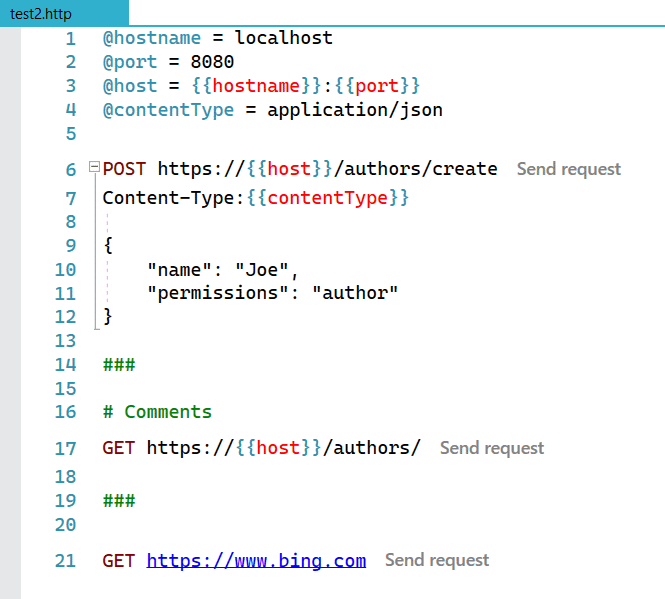
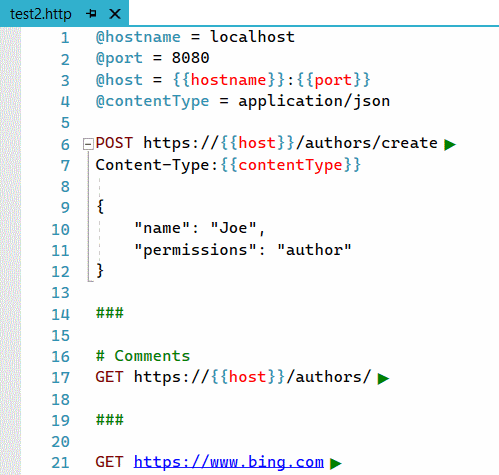
Added output colorization Fixes #4

Changed region(s): [[0.0, 0.0, 1.0, 1.0], [0.2104, 0.4421, 0.7214, 0.56]]

diff --git a/src/RestClientVS/OutputWindow/OutputClassifier.cs b/src/RestClientVS/OutputWindow/OutputClassifier.cs
@@ -1,0 +1,83 @@
+using System.Collections.Generic;
+using System.ComponentModel.Composition;
+using System.Linq;
+using System.Text.RegularExpressions;
+using Microsoft.VisualStudio.Text;
+using Microsoft.VisualStudio.Text.Classification;
+using Microsoft.VisualStudio.Text.Tagging;
+using Microsoft.VisualStudio.Utilities;
+
+namespace RestClientVS.OutputWindow
+{
+    [Export(typeof(ITaggerProvider))]
+    [TagType(typeof(IClassificationTag))]
+    [ContentType("output")]
+    public class OutputClassifier : ITaggerProvider
+    {
+        [Import] internal IClassificationTypeRegistryService _classificationRegistry = null;
+
+        public ITagger<T> CreateTagger<T>(ITextBuffer buffer) where T : ITag =>
+            buffer.Properties.GetOrCreateSingletonProperty(() => new OutputClassificationTagger(buffer, _classificationRegistry)) as ITagger<T>;
+
+    }
+
+    internal class OutputClassificationTagger : ITagger<IClassificationTag>
+    {
+        private readonly IClassificationType _headerNameType, _statusOkType, _statusBadType;
+        private readonly ITextBuffer _buffer;
+        private readonly Regex _status = new(@"^HTTP/\d.\d (?<status>\d{3} .+)", RegexOptions.Compiled | RegexOptions.IgnoreCase);
+        private readonly Regex _header = new(@"^(?<name>[\w-]+):(?<value>.+)", RegexOptions.Compiled | RegexOptions.IgnoreCase);
+
+        internal OutputClassificationTagger(ITextBuffer buffer, IClassificationTypeRegistryService registry)
+        {
+            _headerNameType = registry.GetClassificationType(ClassificationTypeDefinitions.HeaderName);
+            _statusOkType = registry.GetClassificationType(ClassificationTypeDefinitions.StatusOk);
+            _statusBadType = registry.GetClassificationType(ClassificationTypeDefinitions.StatusBad);
+            _buffer = buffer;
+        }
+
+        public IEnumerable<ITagSpan<IClassificationTag>> GetTags(NormalizedSnapshotSpanCollection spans)
+        {
+            if (spans.Count == 0 ||
+                !_buffer.CurrentSnapshot.Lines.Any() ||
+                !_buffer.CurrentSnapshot.Lines.First().GetText().StartsWith(Vsix.Name))
+            {
+                yield return null;
+            }
+
+            foreach (SnapshotSpan span in spans)
+            {
+                var text = span.GetText();
+
+                Match match = _header.Match(text);
+
+                if (match.Success)
+                {
+                    Group nameGroup = match.Groups["name"];
+                    var nameSpan = new SnapshotSpan(span.Snapshot, span.Start + nameGroup.Index, nameGroup.Length);
+                    var nameTag = new ClassificationTag(_headerNameType);
+                    yield return new TagSpan<IClassificationTag>(nameSpan, nameTag);
+                }
+                else
+                {
+                    match = _status.Match(text);
+
+                    if (match.Success)
+                    {
+                        Group statusGroup = match.Groups["status"];
+                        var statusCode = int.Parse(statusGroup.Value[0].ToString());
+                        IClassificationType type = statusCode == 2 || statusCode == 3 ? _statusOkType : _statusBadType;
+                        var statusTag = new ClassificationTag(type);
+                        yield return new TagSpan<IClassificationTag>(span, statusTag);
+                    }
+                }
+            }
+        }
+
+        public event EventHandler<SnapshotSpanEventArgs> TagsChanged
+        {
+            add { }
+            remove { }
+        }
+    }
+}

diff --git a/src/RestClientVS/OutputWindow/ClassificationTypeDefinitions.cs b/src/RestClientVS/OutputWindow/ClassificationTypeDefinitions.cs
@@ -1,0 +1,67 @@
+using System.ComponentModel.Composition;
+using System.Windows.Media;
+using Microsoft.VisualStudio.Text.Classification;
+using Microsoft.VisualStudio.Utilities;
+
+namespace RestClientVS.OutputWindow
+{
+    public class ClassificationTypeDefinitions
+    {
+        public const string StatusOk = "StatusOK";
+        public const string StatusBad = "StatusBad";
+        public const string HeaderName = "HeaderName";
+
+        [Export]
+        [Name(StatusOk)]
+        public static ClassificationTypeDefinition StatusOkDefinition { get; set; }
+
+        [Name(StatusOk)]
+        [UserVisible(false)]
+        [Export(typeof(EditorFormatDefinition))]
+        [ClassificationType(ClassificationTypeNames = StatusOk)]
+        [Order(Before = Priority.Default)]
+        public sealed class StatusOkFormat : ClassificationFormatDefinition
+        {
+            public StatusOkFormat()
+            {
+                ForegroundColor = Colors.Green;
+                IsBold = true;
+            }
+        }
+
+        [Export]
+        [Name(StatusBad)]
+        public static ClassificationTypeDefinition StatusBadDefinition { get; set; }
+
+        [Name(StatusBad)]
+        [UserVisible(false)]
+        [Export(typeof(EditorFormatDefinition))]
+        [ClassificationType(ClassificationTypeNames = StatusBad)]
+        [Order(Before = Priority.Default)]
+        public sealed class StatusBadFormat : ClassificationFormatDefinition
+        {
+            public StatusBadFormat()
+            {
+                ForegroundColor = Colors.Crimson;
+                IsBold = true;
+            }
+        }
+
+        [Export]
+        [Name(HeaderName)]
+        public static ClassificationTypeDefinition HeaderNameDefinition { get; set; }
+
+        [Name(HeaderName)]
+        [UserVisible(false)]
+        [Export(typeof(EditorFormatDefinition))]
+        [ClassificationType(ClassificationTypeNames = HeaderName)]
+        [Order(Before = Priority.Default)]
+        public sealed class HeaderNameFormat : ClassificationFormatDefinition
+        {
+            public HeaderNameFormat()
+            {
+                IsBold = true;
+            }
+        }
+    }
+}

diff --git a/src/RestClientVS/Language/RestClassificationTagger.cs b/src/RestClientVS/Language/RestClassificationTagger.cs
@@ -16,8 +16,7 @@ namespace RestClientVS.Classify
     [Name(RestLanguage.LanguageName)]
     internal class RestClassificationTaggerProvider : ITaggerProvider
     {
-        [Import]
-        private readonly IClassificationTypeRegistryService _classificationRegistry = default;
+        [Import] internal IClassificationTypeRegistryService _classificationRegistry = null;
 
         public ITagger<T> CreateTagger<T>(ITextBuffer buffer) where T : ITag =>
             buffer.Properties.GetOrCreateSingletonProperty(() => new RestClassificationTagger(buffer, _classificationRegistry)) as ITagger<T>;
@@ -57,7 +56,7 @@ namespace RestClientVS.Classify
             {
                 foreach (ParseItem item in _document.Tokens.Where(t => t.Start < span.End && t.End > span.Start))
                 {
-                    if (_map.ContainsKey(item.Type))
+                    if (_map.ContainsKey(item.Type) && item.End <= span.Snapshot.Length)
                     {
                         var itemSpan = new SnapshotSpan(span.Snapshot, item.Start, item.Length);
                         var itemTag = new ClassificationTag(_map[item.Type]);

diff --git a/src/RestClientVS/Commands/SendRequestCommand.cs b/src/RestClientVS/Commands/SendRequestCommand.cs
@@ -38,7 +38,7 @@ namespace RestClientVS
 
                     await _pane.ActivateAsync();
                     await _pane.ClearAsync();
-                    await _pane.WriteLineAsync(DateTime.Now.ToString() + " - " + request.Url.ExpandVariables() + Environment.NewLine);
+                    await _pane.WriteLineAsync(Vsix.Name + " " + DateTime.Now.ToString() + " - " + request.Url.ExpandVariables() + Environment.NewLine);
 
                     await VS.StatusBar.ShowMessageAsync($"Sending request to {request.Url.ExpandVariables()}...");
                     await VS.StatusBar.StartAnimationAsync(StatusAnimation.Sync);

diff --git a/src/RestClientVS/Language/RestCompletionSource.cs b/src/RestClientVS/Language/RestCompletionSource.cs
@@ -22,8 +22,7 @@ namespace RestClientVS.Completion
     [Name(RestLanguage.LanguageName)]
     internal class RestCompletionSourceProvider : IAsyncCompletionSourceProvider
     {
-        [Import]
-        private readonly ITextStructureNavigatorSelectorService _structureNavigator = default;
+        [Import] internal ITextStructureNavigatorSelectorService _structureNavigator = null;
 
         public IAsyncCompletionSource GetOrCreate(ITextView textView) =>
             textView.Properties.GetOrCreateSingletonProperty(() => new RestCompletionSource(_structureNavigator));

diff --git a/src/RestClientVS/BaseClasses/BraceCompletionBase.cs b/src/RestClientVS/BaseClasses/BraceCompletionBase.cs
@@ -11,8 +11,7 @@ namespace RestClientVS
 {
     public abstract class BraceCompletionBase : IBraceCompletionContextProvider
     {
-        [Import]
-        private readonly IClassifierAggregatorService _classifierService = default;
+        [Import] internal IClassifierAggregatorService _classifierService = null;
 
         public bool TryCreateContext(ITextView textView, SnapshotPoint openingPoint, char openingBrace, char closingBrace, out IBraceCompletionContext context)
         {

diff --git a/src/RestClientVS/RestClientVSPackage.cs b/src/RestClientVS/RestClientVSPackage.cs
@@ -27,8 +27,6 @@ namespace RestClientVS
     {
         protected override async Task InitializeAsync(CancellationToken cancellationToken, IProgress<ServiceProgressData> progress)
         {
-            // Create text view host: ITextEditorFactoryService
-
             RegisterEditorFactory(new RestLanguage(this));
 
             await this.RegisterCommandsAsync();

diff --git a/README.md b/README.md
@@ -1,4 +1,4 @@
-# Rest Client for Visual Studio
+# Rest Client for Visual Studio
 
 [![Build status](https://ci.appveyor.com/api/projects/status/p149td5c23fap553?svg=true)](https://ci.appveyor.com/project/madskristensen/restclientvs)
 
@@ -42,7 +42,9 @@ This is what it looks like in the Blue Theme.
 
 ![Document](art/document.png)
 
-Notice the *Send Request* text buttons showing up after each URL. Clicking those will fire off the request and display the raw response in the Output Widow.
+Notice the green play buttons showing up after each URL. Clicking those will fire off the request and display the raw response in the Output Widow.
+
+![Output](art/output.png)
 
 Peek at the value of the variables by moving the mouse over any line containing a variable reference.
 
